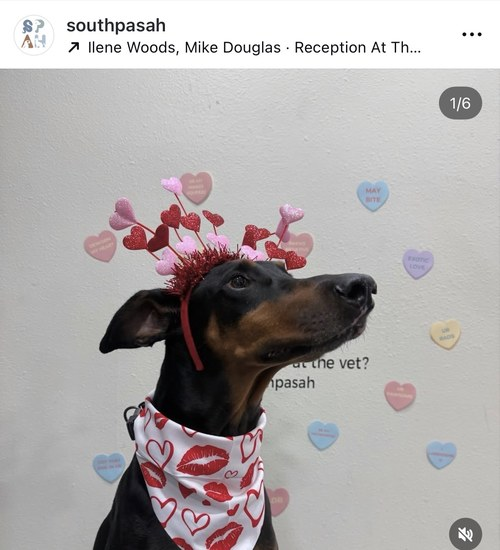
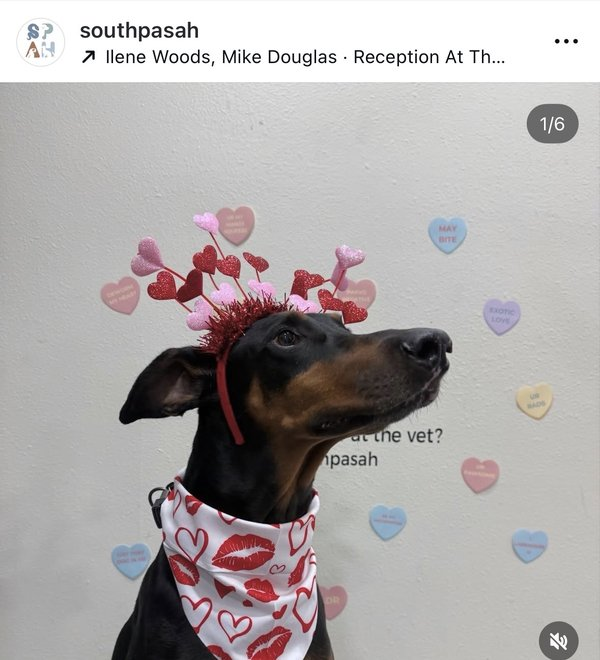
Smooth carousel: slower speed, softer momentum, higher-res images
- Rotation speed 4.8 → 2.5 deg/s for smoother visual
- Increased perspective 1200px → 1600px to reduce 3D warping
- Removed backface-visibility on cylinder (caused flickering)
- Softened drag momentum (velocity * 0.94, lower multipliers)
- Upscaled Instagram images from 400px → 600px to fix pixelation

diff --git a/about.html b/about.html
@@ -261,8 +261,8 @@
       display: flex;
       align-items: center;
       justify-content: center;
-      perspective: 1200px;
-      -webkit-perspective: 1200px;
+      perspective: 1600px;
+      -webkit-perspective: 1600px;
     }
     .ig-carousel-cylinder {
       position: relative;
@@ -271,8 +271,6 @@
       transform-style: preserve-3d;
       -webkit-transform-style: preserve-3d;
       will-change: transform;
-      backface-visibility: hidden;
-      -webkit-backface-visibility: hidden;
     }
     .ig-card {
       position: absolute;
@@ -415,7 +413,7 @@
     let autoRotate = true;
 
     let lastFrameTime = 0;
-    const rotSpeed = 4.8; // degrees per second
+    const rotSpeed = 2.5; // degrees per second (slower = smoother)
 
     function setRotation(angle) {
       cylinder.style.transform = `rotateY(${angle}deg) translateZ(0)`;
@@ -440,7 +438,7 @@
       if (isDragging) return;
       if (Math.abs(velocity) > 0.05) {
         currentAngle += velocity;
-        velocity *= 0.96;
+        velocity *= 0.94;
         setRotation(currentAngle);
         animFrame = requestAnimationFrame(momentumDecay);
       } else {
@@ -469,8 +467,8 @@
       const dx = e.clientX - lastX;
       const now = Date.now();
       const dt = now - lastTime || 1;
-      velocity = (dx / dt) * 15;
-      currentAngle += dx * (isMobile ? 0.35 : 0.25);
+      velocity = (dx / dt) * 10;
+      currentAngle += dx * (isMobile ? 0.25 : 0.18);
       setRotation(currentAngle);
       lastX = e.clientX;
       lastTime = now;
